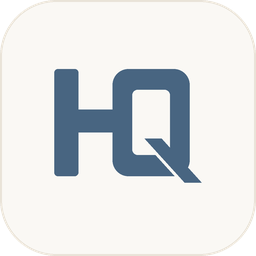
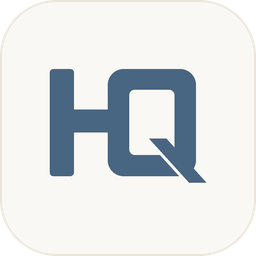
Q at 0.40 in the HQ tiles (#18)

diff --git a/NOTES.md b/NOTES.md
@@ -2,6 +2,8 @@
 
 ## 2026-10-12
 
+- Q at 0.40 (app ADR-0038, homehq#340): the founder found 0.35 too skinny and picked
+  0.40; `brand/` tiles replaced with the regenerated ones, byte for byte.
 - Slimmer Q (app ADR-0038 amendment, homehq#337): the founder found the first Q too
   wide; `brand/` tiles replaced with the regenerated ones, byte for byte.
 - Balanced HQ logo (app ADR-0038): `brand/` holds the tiles generated by the app
